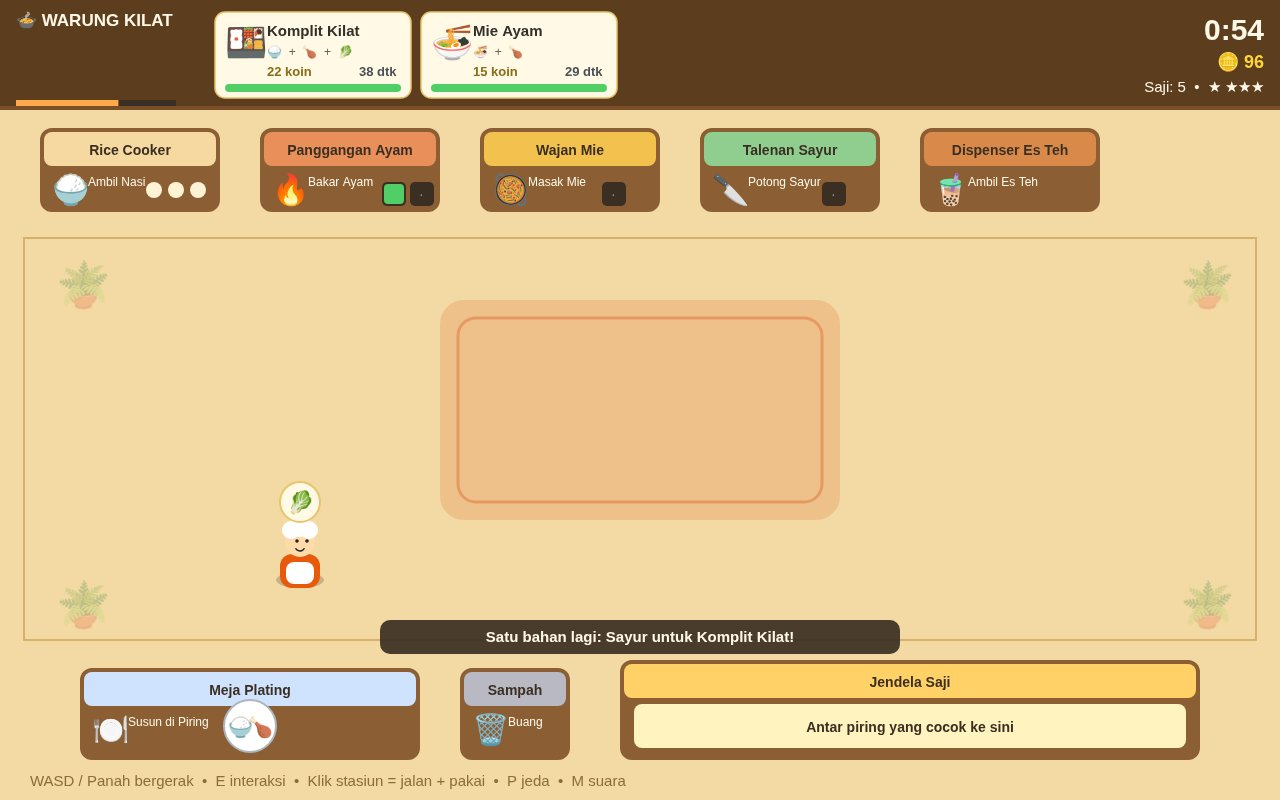
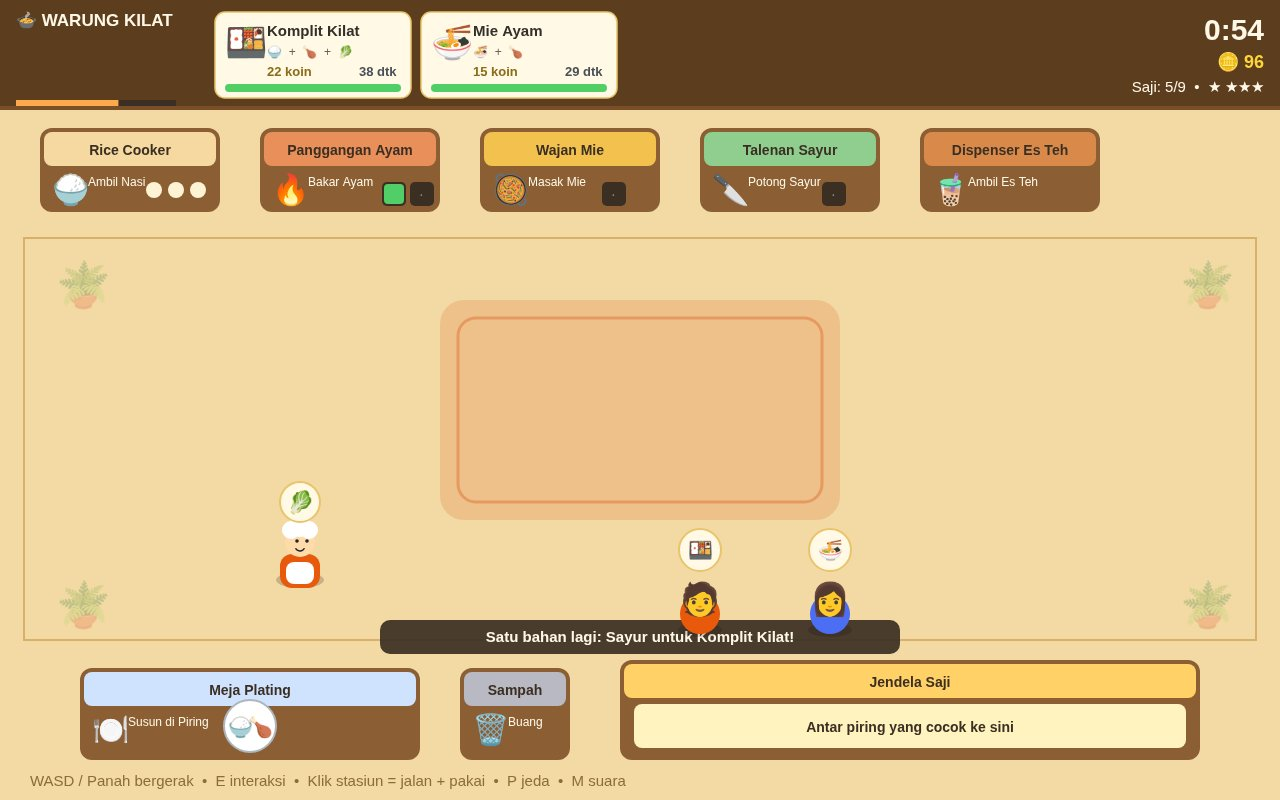
R3: pelanggan menunggu di jendela saji, resep Nasi Campur, burst saat sajikan, target 9 di HUD

Changed region(s): [[0.625, 0.6562, 0.6875, 0.8125], [0.5312, 0.6562, 0.5625, 0.8125], [0.875, 0.0938, 0.9375, 0.125]]

diff --git a/game/src/render.js b/game/src/render.js
@@ -172,6 +172,38 @@ function drawStation(ctx, game, station) {
   }
 }
 
+function drawCustomers(ctx, game) {
+  if (game.screen !== 'play') return;
+  const faces = ['🧑', '👩', '👵', '👨'];
+  const shirts = ['#e8590c', '#4c6ef5', '#2f9e44', '#fab005'];
+  game.orders.forEach((order, index) => {
+    const x = 700 + index * 130;
+    const y = 596;
+    ctx.fillStyle = 'rgba(0,0,0,0.15)';
+    ctx.beginPath();
+    ctx.ellipse(x, y + 34, 22, 7, 0, 0, Math.PI * 2);
+    ctx.fill();
+    // Colored body so the customer reads against the pale floor.
+    ctx.fillStyle = shirts[index % shirts.length];
+    ctx.beginPath();
+    ctx.arc(x, y + 18, 20, 0, Math.PI * 2);
+    ctx.fill();
+    ctx.font = '32px serif';
+    ctx.textAlign = 'center';
+    ctx.fillText(faces[index % faces.length], x, y + 14);
+    ctx.fillStyle = '#fff9e6';
+    ctx.beginPath();
+    ctx.arc(x, y - 46, 21, 0, Math.PI * 2);
+    ctx.fill();
+    ctx.strokeStyle = '#e9c46a';
+    ctx.lineWidth = 2;
+    ctx.stroke();
+    ctx.font = '20px serif';
+    ctx.fillText(order.recipe.emoji, x, y - 39);
+    ctx.textAlign = 'left';
+  });
+}
+
 function drawPlayer(ctx, game) {
   const player = game.player;
   ctx.save();
@@ -262,7 +294,7 @@ function drawHud(ctx, game) {
   ctx.fillText(`🪙 ${game.coins}`, panelX, 68);
   ctx.fillStyle = '#fff8e7';
   ctx.font = '15px sans-serif';
-  ctx.fillText(`Saji: ${game.served}  •  ★ ${'★'.repeat(game.stars)}${'☆'.repeat(3 - game.stars)}`, panelX, 92);
+  ctx.fillText(`Saji: ${game.served}/9  •  ★ ${'★'.repeat(game.stars)}${'☆'.repeat(3 - game.stars)}`, panelX, 92);
   ctx.textAlign = 'left';
   const dayFraction = 1 - game.timeLeft / DAY_SECONDS;
   ctx.fillStyle = '#3b2f23';
@@ -410,6 +442,7 @@ export function renderGame(ctx, game) {
   ctx.clearRect(0, 0, VIEW.width, VIEW.height);
   drawFloor(ctx, game);
   for (const id of STATION_ORDER) drawStation(ctx, game, STATIONS[id]);
+  drawCustomers(ctx, game);
   if (game.screen !== 'title') drawPlayer(ctx, game);
   for (const particle of game.particles) {
     ctx.globalAlpha = Math.max(0, particle.life / particle.maxLife);

diff --git a/game/src/config.js b/game/src/config.js
@@ -29,11 +29,12 @@ export const RECIPES = [
   { id: 'mie-ayam', name: 'Mie Ayam', emoji: '🍜', items: ['Mie', 'Ayam'], price: 15 },
   { id: 'es-teh', name: 'Es Teh', emoji: '🧋', items: ['Teh'], price: 8 },
   { id: 'komplit', name: 'Komplit Kilat', emoji: '🍱', items: ['Nasi', 'Ayam', 'Sayur'], price: 22 },
+  { id: 'nasi-campur', name: 'Nasi Campur', emoji: '🥡', items: ['Nasi', 'Mie', 'Sayur'], price: 20 },
 ];
 
-// Early orders are simple; the 3-item Komplit only appears once the rush builds.
+// Early orders are simple; the 3-item dishes only appear once the rush builds.
 export const EARLY_RECIPES = ['nasi-ayam', 'mie-goreng', 'nasi-goreng', 'es-teh'];
-export const LATE_RECIPES = ['mie-ayam', 'komplit'];
+export const LATE_RECIPES = ['mie-ayam', 'komplit', 'nasi-campur'];
 
 export const STATIONS = {
   nasi: { id: 'nasi', label: 'Rice Cooker', hint: 'Ambil Nasi', x: 40, y: 128, width: 180, height: 84, emoji: '🍚', tint: '#f6d9a0' },

diff --git a/game/src/state.js b/game/src/state.js
@@ -102,6 +102,8 @@ export function servePlate(game, order) {
   if (perfect) earned = Math.round(earned * PERFECT_BONUS_MULT);
   game.coins += earned;
   game.served += 1;
+  addParticles(game, 900, 700, '#ffd43b', 14);
+  addParticles(game, 900, 700, '#2f9e44', 8);
   game.combo = game.comboTimer > 0 ? game.combo + 1 : 1;
   game.comboTimer = 8;
   game.orders = game.orders.filter((item) => item.id !== order.id);

diff --git a/game/src/shots.js b/game/src/shots.js
@@ -81,7 +81,7 @@ export function stageShot(name, game) {
   }
   // cover (default): a busy kitchen, three orders, food everywhere.
   setOrder(game, 'nasi-ayam', 40, true);
-  setOrder(game, 'mie-goreng', 28);
+  setOrder(game, 'nasi-campur', 28);
   setOrder(game, 'es-teh', 47);
   game.time = 62;
   game.timeLeft = 88;

diff --git a/README.md b/README.md
@@ -16,6 +16,9 @@ pesanan datang lebih cepat dan waktu makin sempit.
 - **E / Spasi** — pakai stasiun terdekat
 - **P** — jeda; **M** — suara; **R** — main lagi setelah hari selesai
 - Satu hari = 150 detik, 3 bintang reputasi. Sajikan cepat untuk tip dan kombo.
+  Target: sajikan 9 pesanan untuk rating Koki Andal.
+- 7 resep: Nasi Ayam, Mie Goreng, Nasi Goreng, Mie Ayam, Es Teh, plus hidangan
+  3 bahan Komplit Kilat dan Nasi Campur yang muncul saat dapur mulai ramai.
 - Pesanan spesial (kartu emas) membayar 1,5x tapi sabarnya lebih cepat habis;
   sajikan selagi sabar pelanggan masih di atas 60% untuk bonus SEMPURNA +50%.
 
